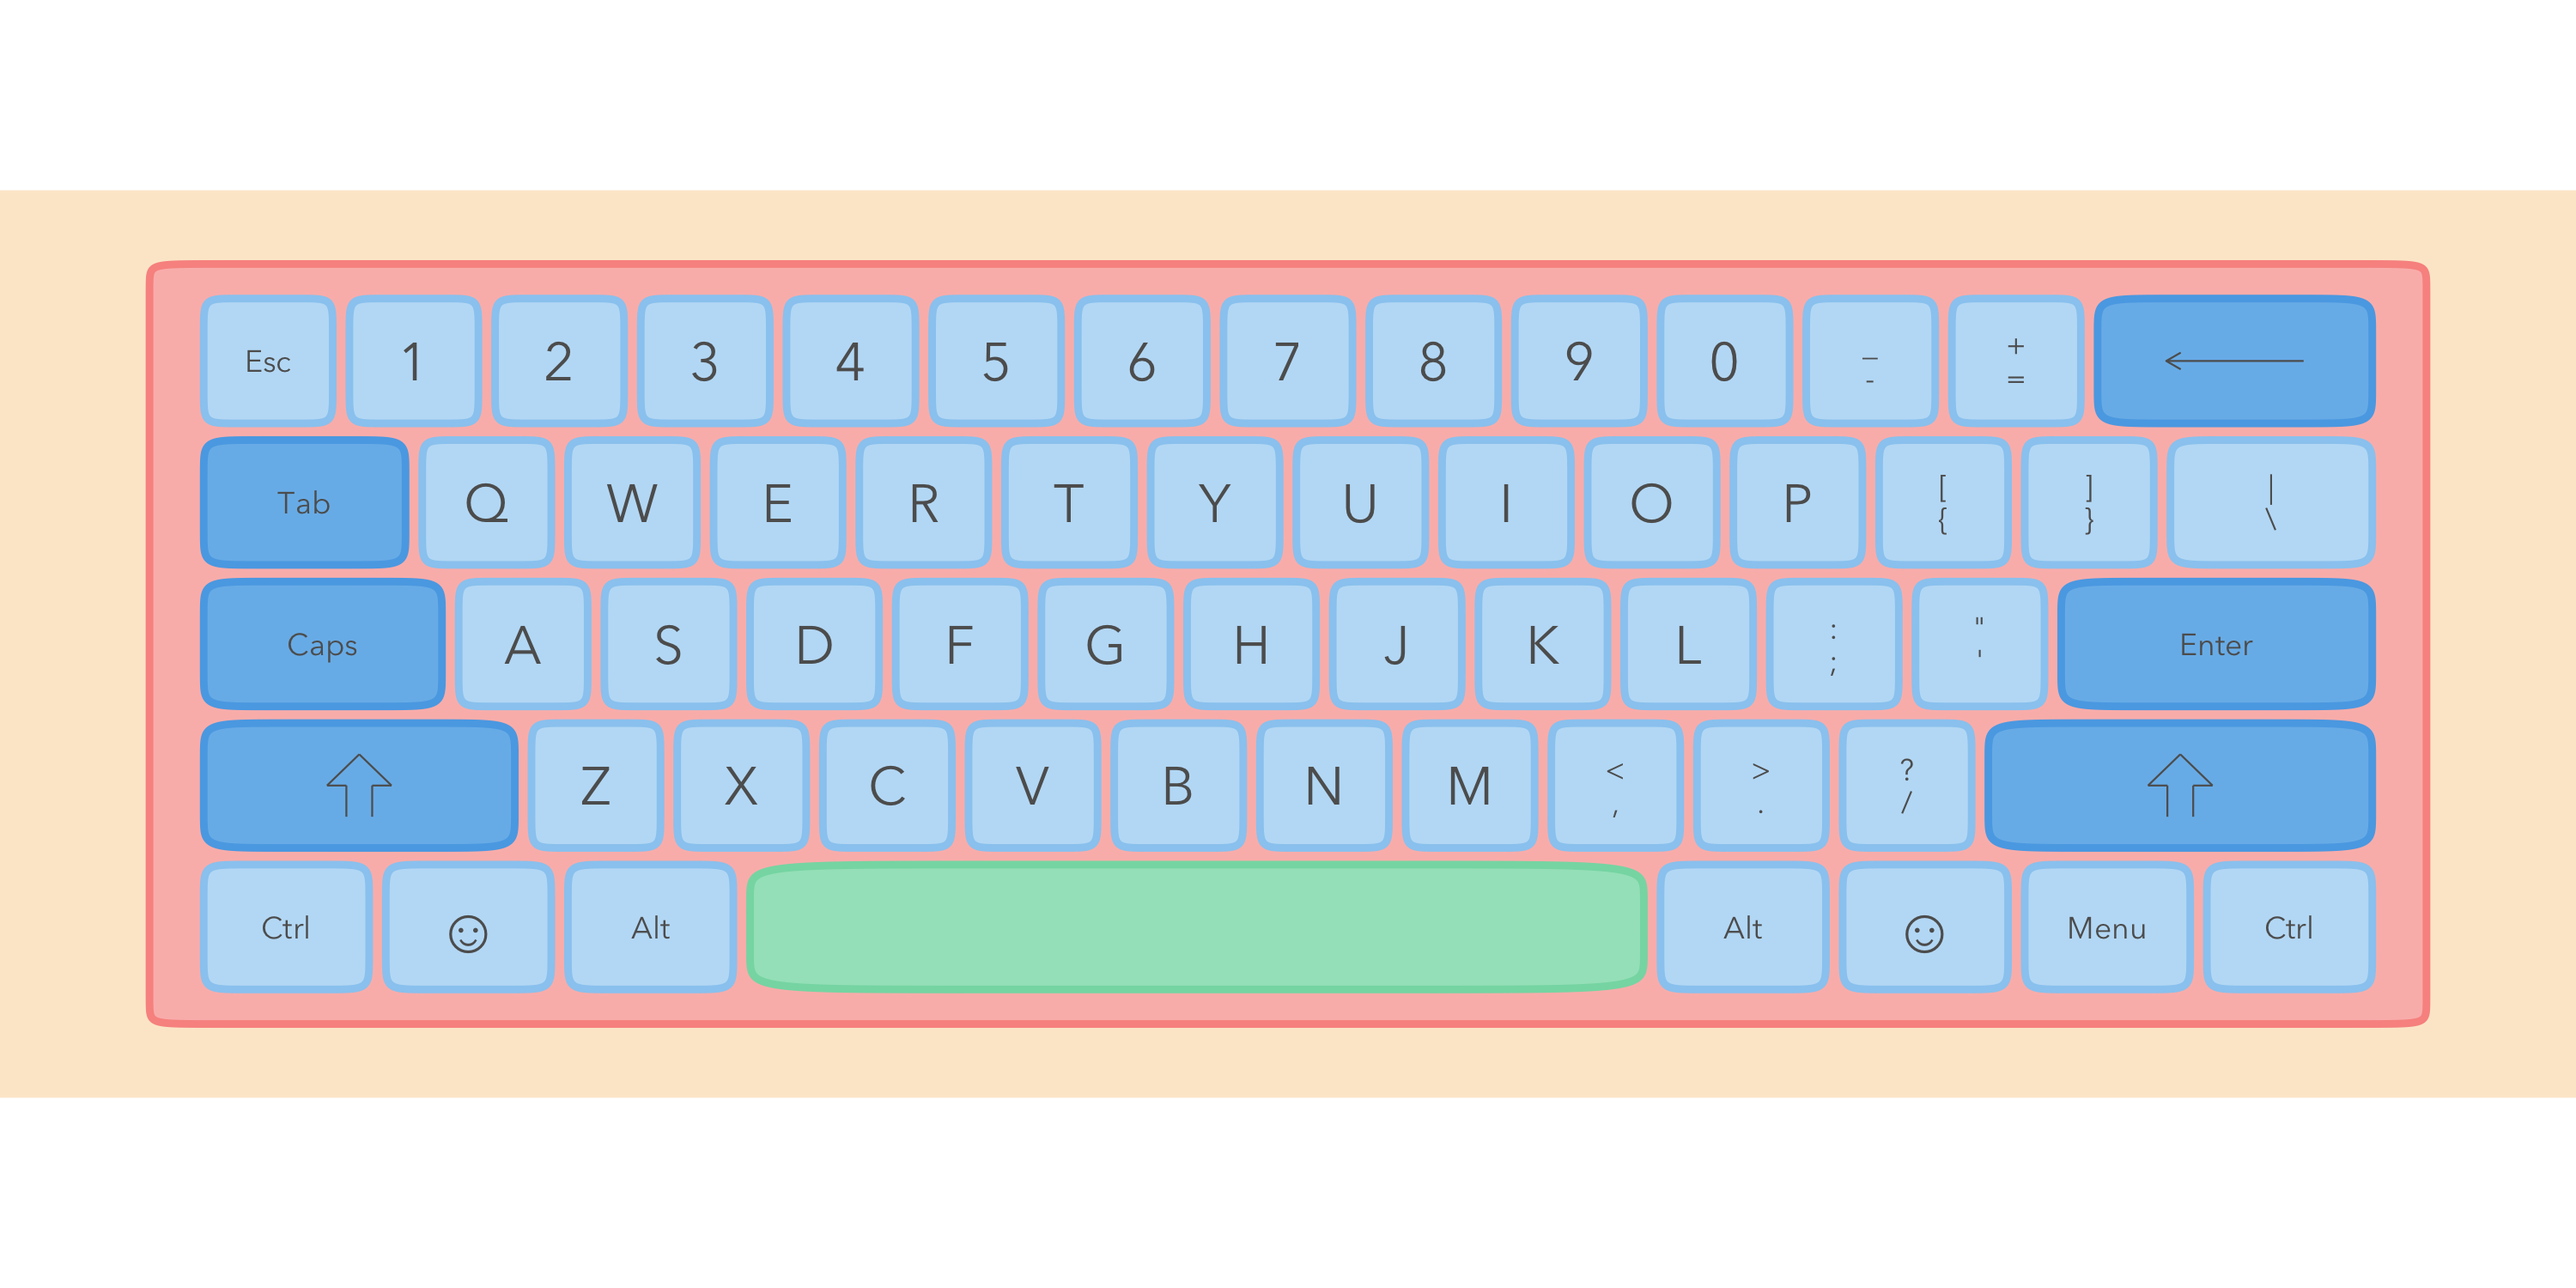
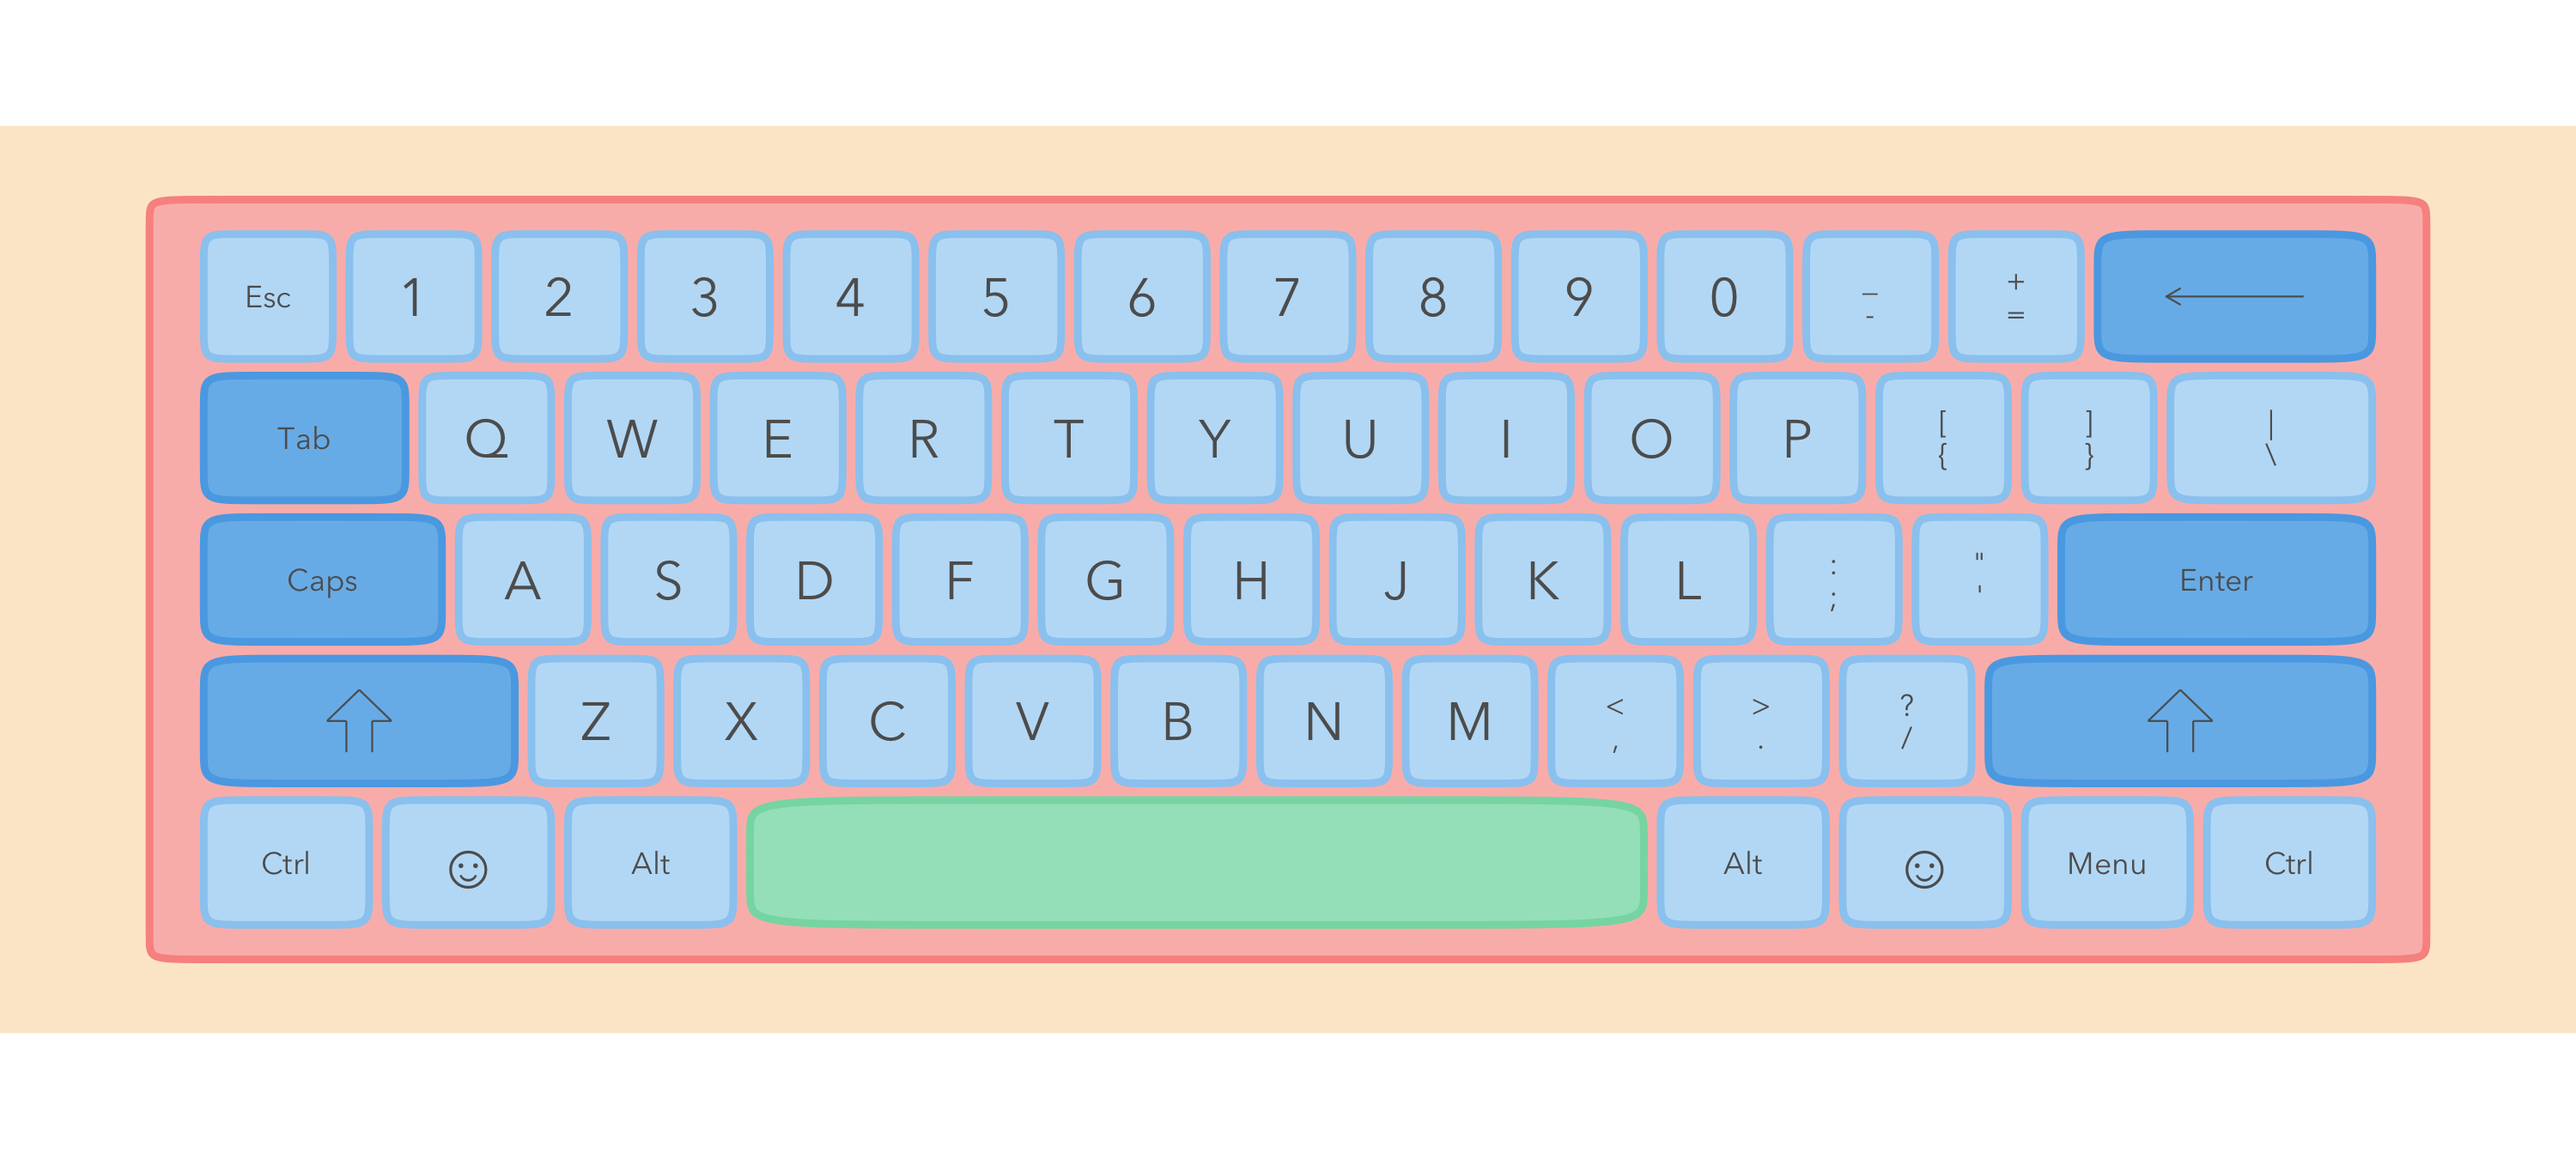
Bump version

Changed region(s): [[0.0, 0.0933, 1.0, 0.4667], [0.0, 0.5289, 1.0, 0.9022]]

diff --git a/README.md b/README.md
@@ -32,7 +32,7 @@ library(scales)
 show_col(keyboard_palette("serika"))
 ```
 
-<img src="man/figures/README-palette-1.png" width="100%" />
+<img src="man/figures/README-palette-1.png" width="50%" />
 
 This keyboard is inspired by the [Drop + Zambumon MT3 Serika Custom
 Keycap
